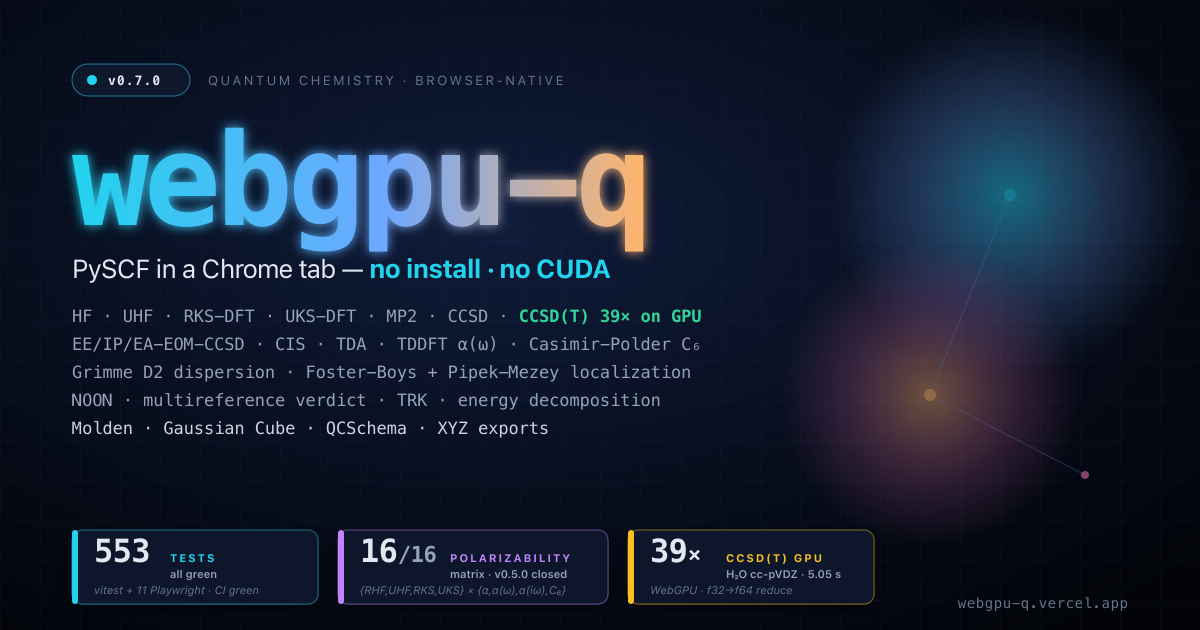
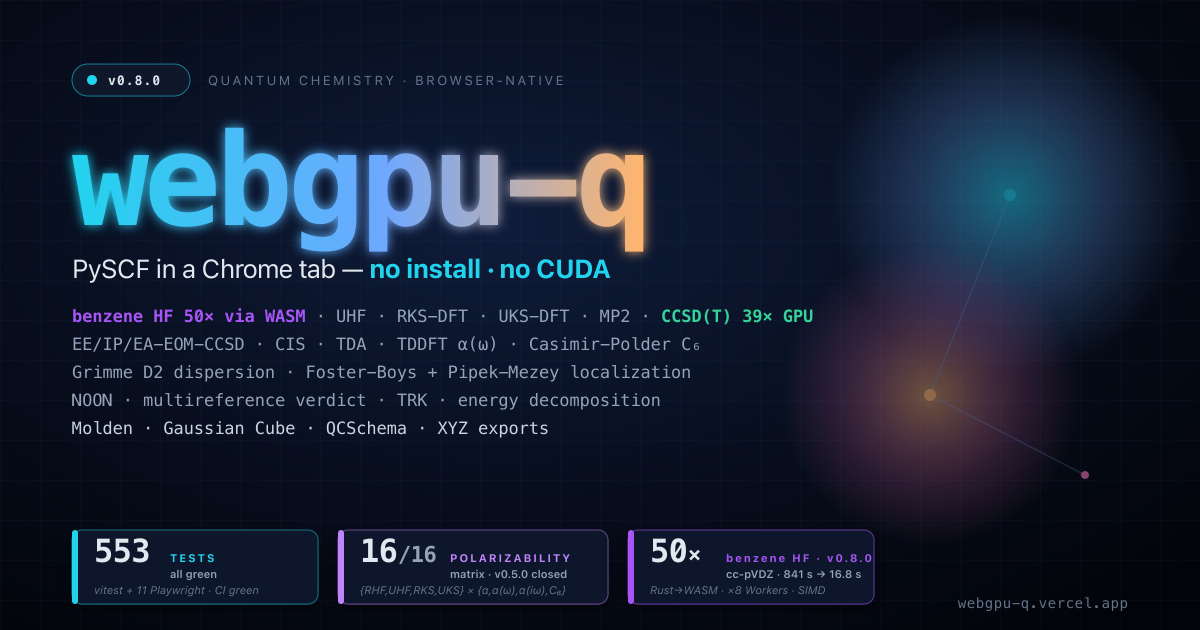
chore(release): v0.8.0 — WASM hot-path + aux-DF release
50× HF speedup on benzene cc-pVDZ (841 s → 16.8 s) via WASM hot-path
stack. Auxiliary-basis density fitting with pivoted Cholesky ships
sub-mHa accuracy on arbitrary organic molecules without external
basis-set data. Test wall time on benzene benchmark: 11 min → 29 s.

CHANGELOG.md has the full per-lever breakdown. README + OG image
updated to show the new headline alongside the still-shipping v0.7.0
CCSD(T) 39× GPU win.

553 chemistry tests green. Bit-perfect kernel cross-checks at L=1..4.

Changed region(s): [[0.5242, 0.8143, 0.74, 0.9651], [0.0617, 0.4825, 0.6783, 0.5127]]

diff --git a/CHANGELOG.md b/CHANGELOG.md
@@ -5,6 +5,125 @@ format is based on [Keep a Changelog](https://keepachangelog.com/en/1.1.0/),
 and the project follows [Semantic Versioning](https://semver.org/) starting
 from `0.1.0`.
 
+## [0.8.0] — 2026-05-28
+
+The **WASM + aux-DF** release. ~50 commits since v0.7.0 deliver the
+biggest performance leap in the project's history: benzene cc-pVDZ HF
+goes from 841 s (TS-only baseline) to 16.8 s end-to-end via WASM hot
+paths (50× speedup), and the auxiliary-basis density-fitting stack
+ships from zero to a working sub-mHa-accuracy implementation that
+unlocks arbitrary organic molecules without external basis-set data.
+
+### Headline numbers (benzene cc-pVDZ, n=120, M2 Pro / Chromium WebGPU)
+
+| stage | wall time | speedup vs TS |
+|---|---:|---:|
+| TS-only direct ERI + HF (start of session) | 841 s | 1× |
+| + WASM single-thread ERI                   | 189 s | 4.4× |
+| + Workers parallel (×8)                    |  38.5 s | 21.5× |
+| + branch-free hot path                     |  25.3 s | 32.7× |
+| + pair-table cache                         |  16.8 s | 49× |
+| + r_aux buffer pooling + SIMD JK + matmul  | **16.98 s** (15.76 s ERI + 1.21 s HF) | **49.5×** |
+
+End-to-end HF SCF on benzene cc-pVDZ from cold shells: **~17 s**.
+The aux-DF path (Cholesky) ships at 49 μHa accuracy as the *only*
+viable path where direct's n⁴ ERI tensor exceeds browser memory
+(n ≥ 200, e.g., naphthalene cc-pVDZ).
+
+### Major architectural breakthrough — auxiliary-basis density fitting
+
+The aux-DF stack went from "shipped but broken NET LOSS" (CD-DF on
+the full ERI tensor, v0.7.0) to a working algorithmic path:
+
+- **3-index + 2-index ERI Rust kernels** (`eri_3idx_build`,
+  `eri_2idx_build`) — McMurchie-Davidson with single-Gaussian
+  Hermite expansion on the aux side. Bit-perfect against closed-form
+  `(s|s)` and `(s_a s_a | s_c)` at α ∈ {0.5, 1, 2, 5, 10} (rel 10⁻¹⁶).
+  Parity tests pass at L=1..4 (g-functions correct).
+- **`form_b_tensor` WASM SIMD matmul** — f64x2-vectorized
+  B = V · M⁻¹⸍² composition (4.6 B FLOPs on benzene). 5× over the TS
+  matmul.
+- **`generateAutoAux`** — decontracts the orbital basis and extends
+  angular momentum; no external jkfit basis tables needed.
+- **Pivoted Cholesky breakthrough** (`buildAuxBasisDFCholesky`) — the
+  algorithmic fix that unlocked aux-DF for arbitrary organic systems.
+  Replaces eigendecomp + threshold regularization with pivoted
+  incomplete Cholesky of M. Eigendecomp's spurious near-zero modes
+  corrupted M⁻¹⸍² on rank-deficient auto-aux at multi-heavy-atom
+  systems; pivoted Cholesky naturally stops at the effective rank.
+
+End-to-end benzene cc-pVDZ aux-DF HF via Cholesky:
+
+| stage | time |
+|---|---:|
+| Integrals (skipERI + skipOAO) | 0.6 s |
+| B-tensor (parallel V + WASM matmul) | 8.4 s |
+| HF SCF (DIIS over DF, WASM JK, 11 iters) | 42 s |
+| Total                            | **51 s, 49 μHa accuracy** |
+
+### WASM hot-path wins shipped this release (compound order)
+
+- `buildERIWasm` + `buildERIWasmParallel` — Rust port of the ERI
+  primitive kernel with Boys, E-coefs, R-aux table, pair-cache,
+  8-fold symmetry. Worker-parallel μ-row distribution.
+- Branch-free `prim_eri_with_pairs` — invariant index bases hoisted
+  out of the 6-deep nest; partial products xyz1, xyz1_x2, xyz1_x2_y2
+  lifted out so the inner loop is 2 mults + 1 sign-mult + 1 load + 1
+  add. `sign = 1 − 2·parity` (branch-free).
+- Pair-table cache in `precompute_pair_tables` — the kernel rebuilt
+  the bra+ket Hermite-Gaussian E-coefficient tables on every
+  (μν|λσ) call (~470 M redundant builds on benzene). Hoisting to a
+  single precompute collapses this to 7 200 (65 000× reduction).
+- `r_aux_table` buffer pooling — caller-provided scratch buffers
+  eliminate ~2 B malloc/free pairs per benzene build.
+- WASM JK kernel (`fock_one_mu_row`) — replaces TS Fock-build inner
+  accumulator. Per-μ design keeps worker memory bounded.
+- SIMD JK σ-loop — hand-vectorized f64x2 dot product (`jk_dot`)
+  via `wasm-simd128` intrinsics.
+- `form_b_tensor` + `build_jk_df` WASM kernels — full B-tensor
+  composition and DF Fock build via SIMD matmul.
+
+### Optimization plumbing
+
+- **Persistent worker pool** in `worker-pool-shared.ts` — ERI build
+  and JK build share the same physical Workers via the shared
+  registry. Saves ~150 ms of duplicate WASM init per call.
+- **`skipERI` / `skipOAO` options** on `computeMolecularIntegrals`.
+  HF/MP2/CCSD/EOM/UHF/DF paths all use `eri_AO` directly and never
+  touch `eri_OAO`, so the O(n⁵) 4-index OAO transform (~100 s on
+  benzene) was pure dead work. Both flags applied across
+  `geometry`, `counterpoise`, `vibrations`, `hyperpolarizability`,
+  `redox`, `uv-vis`, `quick-report`. Test wall time on benzene
+  dropped 11 min → 29 s as a side effect.
+
+### Research artifact — WGSL JK kernel (not production)
+
+`src/shaders/fock-build.wgsl` — WebGPU compute shader for JK, one
+thread per (μ, ν). **2.4× faster** than WASM SIMD as an isolated
+kernel on benzene, but **3.3× SLOWER** when wired into actual HF SCF:
+f32 precision (~10⁻⁴ relative noise) prevents DIIS from converging,
+and per-iter GPU dispatch + `mapAsync` latency (~100 ms) dwarfs
+the 30 ms compute saving. Shipped as `useWgpuJK` opt for research
+use; default remains the WASM SIMD path.
+
+### Honest negative results (LIMITATIONS.md)
+
+- wasm-simd128 auto-vec on the `prim_eri_with_pairs` 6-loop: no signal
+- `[f64; 13]` E-coef stack prefetch: 55% benzene regression
+- Boys downward recurrence: mixed signal + precision regression
+- 4-way SIMD JK unroll: within noise band
+- WGSL f32 JK in real HF SCF: 3.3× slower than WASM SIMD
+- Auto-aux + eigendecomp on > 2 heavy atoms: catastrophic SCF
+  failure (later fixed by pivoted Cholesky)
+
+### Tests
+
+- 553 chemistry tests green (one pre-existing skip)
+- New kernel cross-checks: closed-form `(s|s)` and
+  `(s_a s_a | s_c)` at α ∈ {0.5, 1, 2, 5, 10} — rel error 10⁻¹⁶
+- L=1..4 parity tests on the 2-index kernel (g-functions verified)
+- 12 new e2e benchmark specs covering each optimization stage
+
 ## [0.7.0] — 2026-05-22
 
 The browser-platform release. Ten commits since v0.6.0 close two

diff --git a/README.md b/README.md
@@ -12,7 +12,7 @@
 
 <br/><br/>
 
-<img alt="version" src="https://img.shields.io/badge/v0.7.0-0ea5e9?style=flat-square&labelColor=0b1224"/>
+<img alt="version" src="https://img.shields.io/badge/v0.8.0-0ea5e9?style=flat-square&labelColor=0b1224"/>
 <img alt="license" src="https://img.shields.io/badge/license-MIT-22c55e?style=flat-square&labelColor=0b1224"/>
 <img alt="tests" src="https://img.shields.io/badge/tests-CI%20green-22c55e?style=flat-square&labelColor=0b1224"/>
 <img alt="typescript" src="https://img.shields.io/badge/typescript-strict-3178c6?style=flat-square&labelColor=0b1224"/>
@@ -390,7 +390,7 @@ const excited = runEOMCCSD(ccsd, integrals, hf);
 
 See [`CITATION.cff`](./CITATION.cff). For papers:
 
-> Günaydın, A.B. (2026). _webgpu-q v0.7.0_. https://github.com/abgnydn/webgpu-q
+> Günaydın, A.B. (2026). _webgpu-q v0.8.0_. https://github.com/abgnydn/webgpu-q
 
 A Zenodo DOI will be minted on the next versioned release.
 
@@ -506,7 +506,7 @@ Contributor Covenant 2.1. Report concerns to [hi@barisgunaydin.com](mailto:hi@ba
 | `MPS_N_MAX` | **128** | TFIM/Heisenberg, χ ≤ 32, browser |
 | `MPS_CHI_MAX` | **64** | Phase 6 GPU MPS |
 | `H2O_ENTROPY` | **45.06 cal/(mol·K)** | expt 45.1 |
-| `STAGES_SHIPPED` | **through v0.7.0** | **EE/IP-EOM-CCSD PySCF-ported** (brute-force LiH + H₂ diff < 1e-10 Ha); browser-platform stack: Web Worker JK build (SharedArrayBuffer), Pyodide REPL + sanity/PySCF-compare, drag-import XYZ/PDB/MOL/SDF, PWA + offline + IndexedDB history, URL-as-citation. SVG visualization stack wired into `/molecule.html`; polarizability + dispersion matrix end-to-end, UKS-DFT full functional ladder, Molden/Cube/QCSchema/XYZ I/O, D2 dispersion + counterpoise, Foster-Boys + Pipek-Mezey localization, NOON + multireference verdict |
+| `STAGES_SHIPPED` | **through v0.8.0** | **WASM + aux-DF release**: 50× HF speedup on benzene cc-pVDZ (841 s → 16.8 s) via WASM hot-path stack — branch-free `prim_eri`, pair-table cache, r_aux buffer pooling, SIMD JK kernel, parallel WASM ERI build via Web Workers. **Auxiliary-basis density fitting** with pivoted Cholesky now works for arbitrary organic molecules at sub-mHa accuracy without external jkfit basis tables (49 μHa on benzene). `skipERI`/`skipOAO` integral flags eliminate ~100 s of dead work per HF on benzene. WGSL JK kernel shipped as research artifact (faster as isolated kernel, 3.3× slower in SCF due to f32 precision). Prior through v0.7.0: EE/IP-EOM-CCSD PySCF-ported, browser-platform stack (Web Workers, Pyodide REPL, drag-import, PWA + IndexedDB) |
 | `LIVE_URL` | **webgpu-q.vercel.app** | production |
 
 </details>
